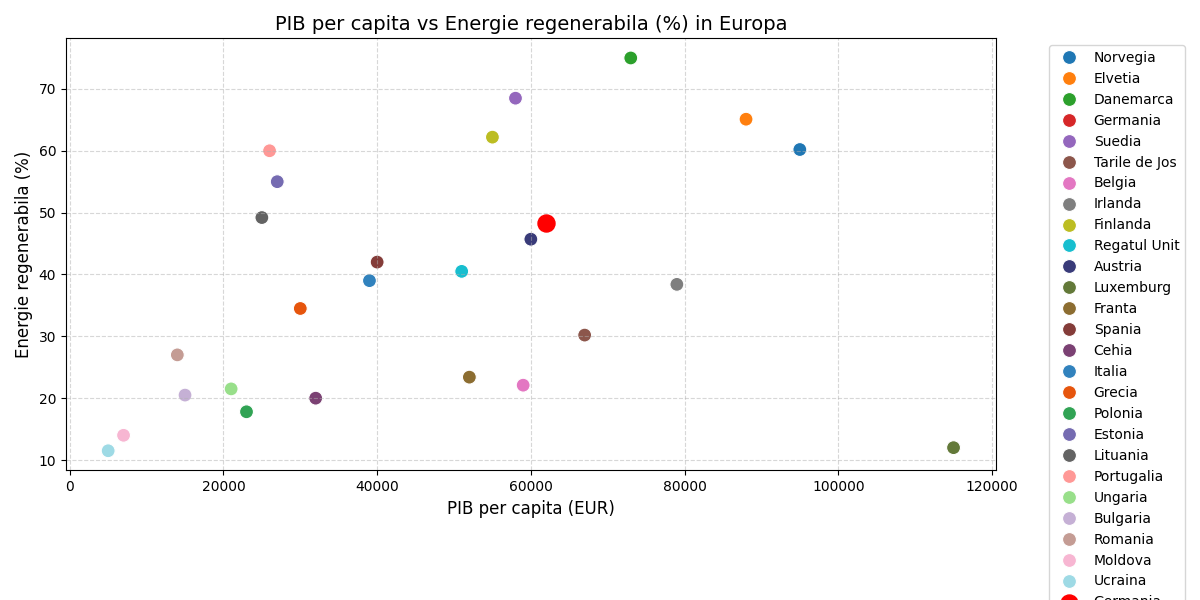
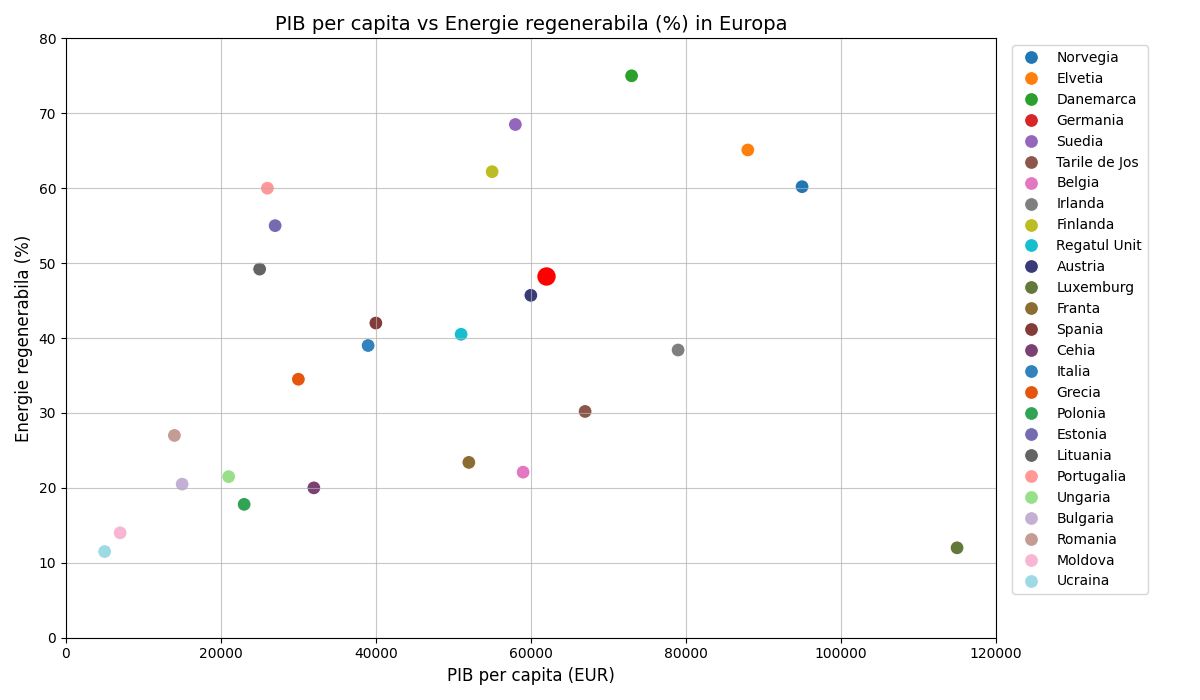
Proiectul final cu rulare in jupyter notebook

diff --git a/01_Proiect_final/Germ_vs_EU.py b/01_Proiect_final/Germ_vs_EU.py
@@ -10,7 +10,7 @@ df_eu = pd.read_csv(csv_path)
 
 print(df_eu.head())
 
-# Elabirarea personalizată a paletei cu 26 culori distincte
+# Elaborarea personalizată a paletei cu 26 culori distincte
 culori_26 = [
     "#1f77b4", "#ff7f0e", "#2ca02c", "#d62728", "#9467bd", "#8c564b",
     "#e377c2", "#7f7f7f", "#bcbd22", "#17becf", "#393b79", "#637939",
@@ -20,7 +20,7 @@ culori_26 = [
 ]
 
 # Pasul_3.2_Crearea scatterplot PIB per capita vs Energie regenerabila
-plt.figure(figsize=(12, 6))
+plt.figure(figsize=(12, 7))
 sns.scatterplot(
     data=df_eu,
     x="PIB_per_capita_EUR",
@@ -32,18 +32,24 @@ sns.scatterplot(
 
 # Pasul_3.3_Evidentiem Germania
 germany = df_eu[df_eu["Tara"] == "Germania"]
-plt.scatter(germany["PIB_per_capita_EUR"], germany["Energie_regenerabila_pct"], color="red", label="Germania", s=150)
+plt.scatter(germany["PIB_per_capita_EUR"], germany["Energie_regenerabila_pct"], color="red", s=150)
 
 plt.title("PIB per capita vs Energie regenerabila (%) in Europa", fontsize=14)
 plt.xlabel("PIB per capita (EUR)", fontsize=12)
 plt.ylabel("Energie regenerabila (%)", fontsize=12)
 plt.grid(True, linestyle="--", alpha=0.5)
 plt.legend(bbox_to_anchor=(1.05, 1), loc="upper left")
+plt.ylim(0, 80)
+plt.xlim(0, 120000)
 plt.tight_layout()
+plt.grid(True, linestyle='-', linewidth=0.8, alpha=0.7)
+plt.xlim(0, 120000)
+plt.legend(bbox_to_anchor=(1.01, 1), loc='upper left')
 plt.savefig("Grafic.png") 
 plt.show()
 
 """
+Facultativ (pentru mine)
 # Pasul_3.4_Crearea Graficului: PIB per capita
 plt.figure(figsize=(14, 6))
 df_sorted_pib = df_eu.sort_values(by="PIB_per_capita_EUR", ascending=False)
